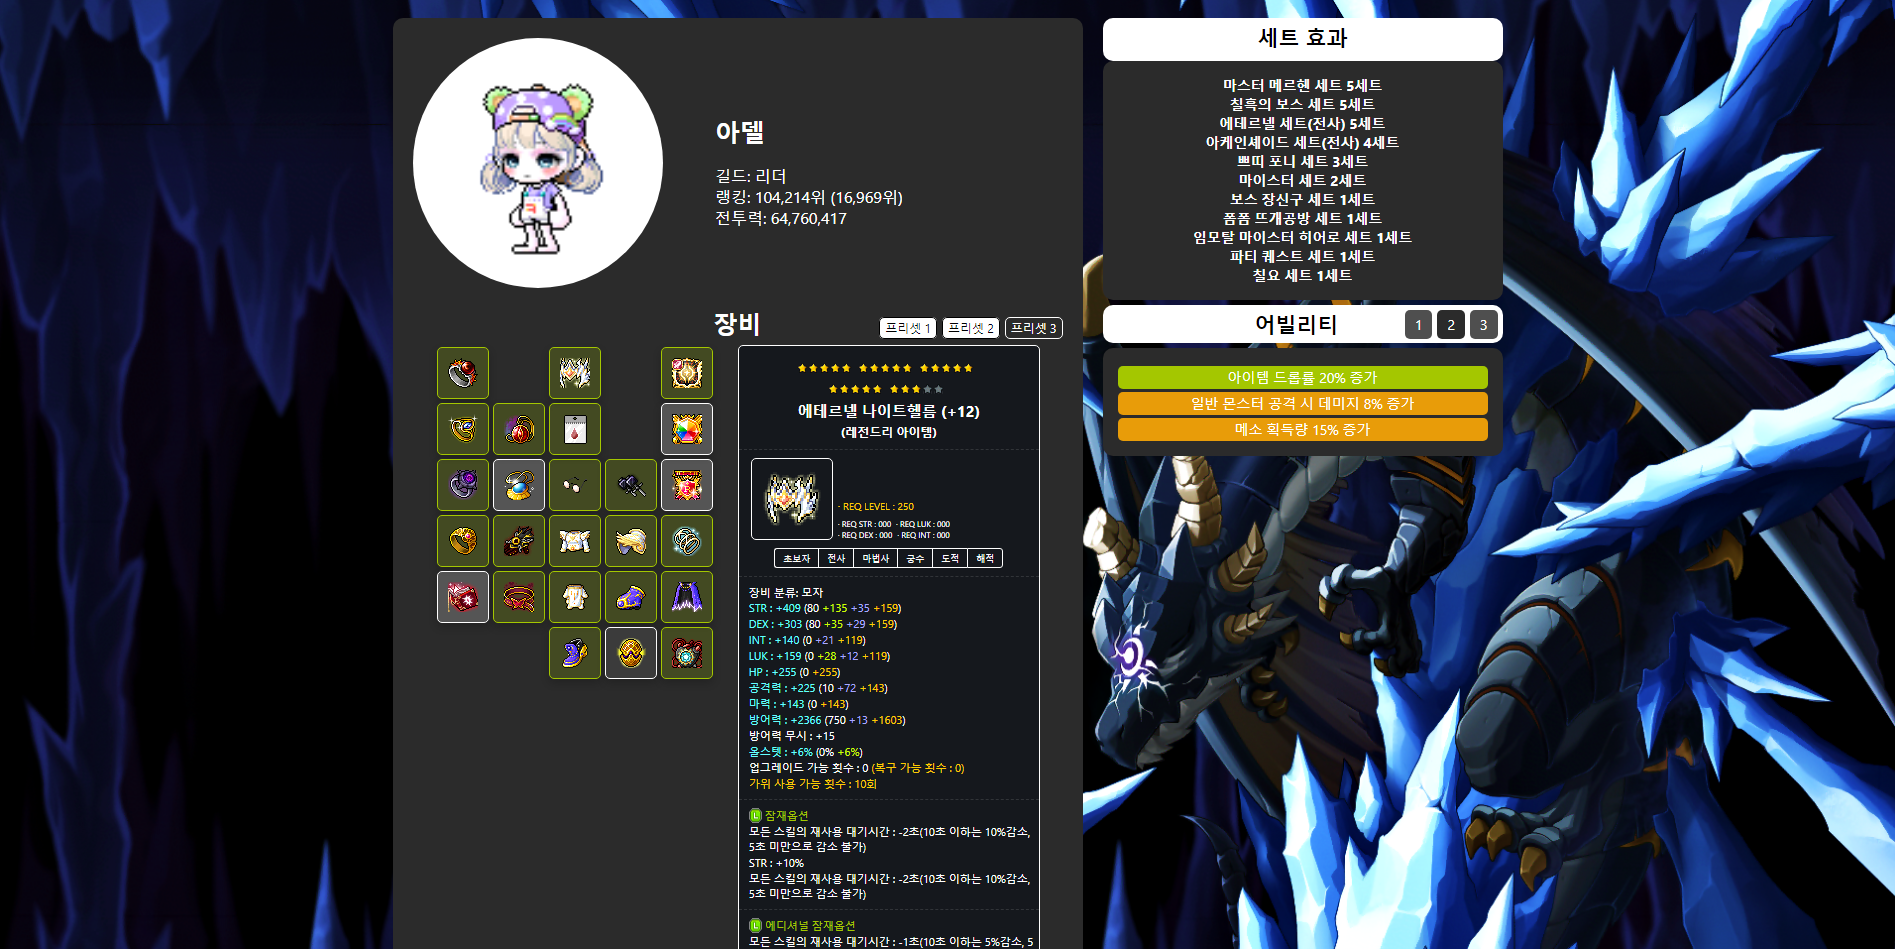
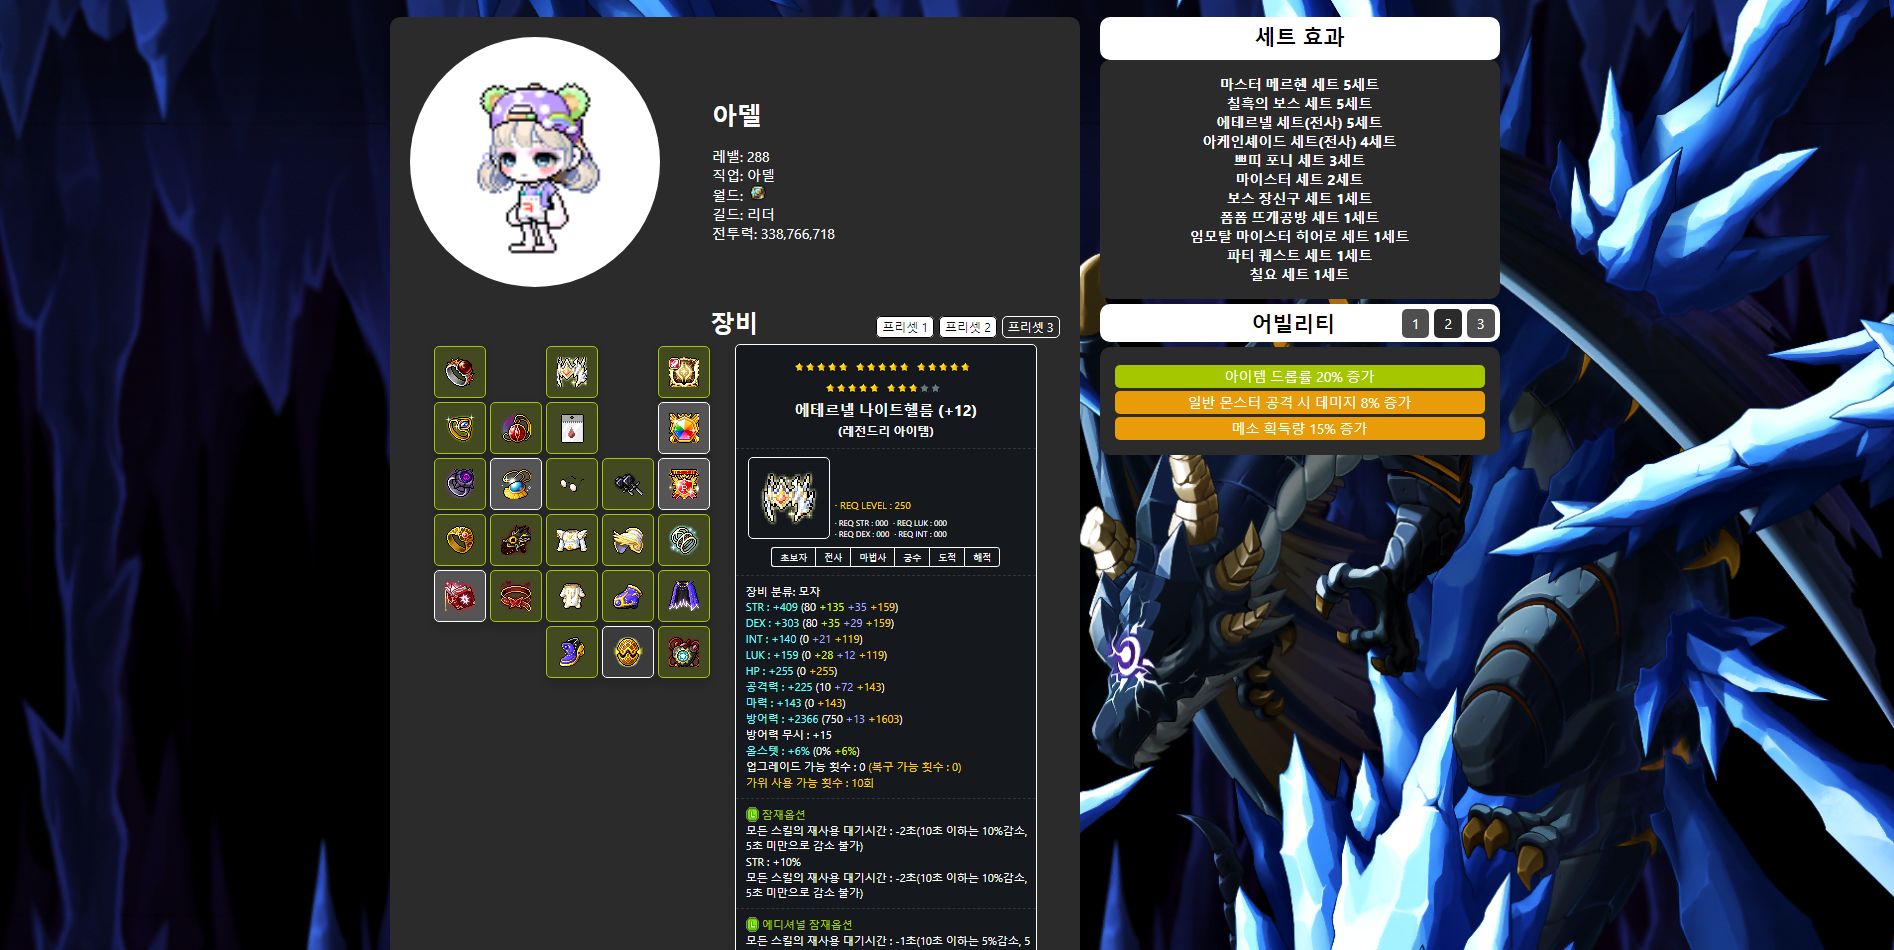
메른이 캐릭터 기본 정보 출력 실제 API 정보로 변경

diff --git a/src/components/Character/Character.js b/src/components/Character/Character.js
@@ -1,9 +1,24 @@
 import React from "react";
 import {ERROR_MESSAGE} from "../../constants/errorConstants";
 import defaultAvatarImg from "../../assets/image/common/maplestory-default-avatar.png";
+import acainIcon from "../../assets/image/common/acain.png";
+import beraIcon from "../../assets/image/common/bera.png";
+import croaIcon from "../../assets/image/common/croa.png";
+import elysiumIcon from "../../assets/image/common/elysium.png";
+import enosisIcon from "../../assets/image/common/enosis.png";
+import novaIcon from "../../assets/image/common/nova.png";
+import ororaIcon from "../../assets/image/common/orora.png";
+import rebootIcon from "../../assets/image/common/reboot.gif";
+import redIcon from "../../assets/image/common/red.png";
+import runaIcon from "../../assets/image/common/runa.png";
+import scaniaIcon from "../../assets/image/common/scania.png";
+import unionIcon from "../../assets/image/common/union.png";
+import zenisIcon from "../../assets/image/common/zenis.png";
+import errorIcon from "../../assets/image/common/maplestory-char-img.jpg";
 
-const Character = (data) => {
-    if("error" in data){
+const Character = (basicInfo, statInfo) => {
+    if("error" in basicInfo || "error" in statInfo){
+        let errorType = "error" in basicInfo ? basicInfo.error.name : statInfo.error.name;
 
         return (
             <div className="character-header">
@@ -11,24 +26,77 @@ const Character = (data) => {
                     <img src={defaultAvatarImg} alt="캐릭터 아바타" />
                 </div>
                 <div className="character-details">
-                    <h1>{ERROR_MESSAGE[data.error.name]}</h1>
+                    <h1>{ERROR_MESSAGE[errorType]}</h1>
+                    <p>레밸: -</p>
+                    <p>직업: -</p>
+                    <p>월드: -</p>
                     <p>길드: -</p>
-                    <p>랭킹: -</p>
                     <p>전투력: -</p>
                 </div>
             </div>
         );
     }else{
+        let worldIcon;
+        switch (basicInfo.world_name) {
+            case "아케인":
+                worldIcon = acainIcon;
+                break;
+            case "베라":
+                worldIcon = beraIcon;
+                break;
+            case "크로아":
+                worldIcon = croaIcon;
+                break;
+            case "엘리시움":
+                worldIcon = elysiumIcon;
+                break;
+            case "이노시스":
+                worldIcon = enosisIcon;
+                break;
+            case "노바":
+                worldIcon = novaIcon;
+                break;
+            case "오로라":
+                worldIcon = ororaIcon;
+                break;
+            case "리부트":
+                worldIcon = rebootIcon;
+                break;
+            case "레드":
+                worldIcon = redIcon;
+                break;
+            case "루나":
+                worldIcon = runaIcon;
+                break;
+            case "스카니아":
+                worldIcon = scaniaIcon;
+                break;
+            case "유니온":
+                worldIcon = unionIcon;
+                break;
+            case "제니스":
+                worldIcon = zenisIcon;
+                break;
+            default:
+                worldIcon = errorIcon;
+        }
+        const combatPower = statInfo?.final_stat.find(stat => stat?.stat_name === "전투력");
+
         return (
             <div className="character-header">
                 <div className="character-avatar">
-                    <img src={data?.character_image} alt="캐릭터 아바타" />
+                    <img src={basicInfo?.character_image} alt="캐릭터 아바타" />
                 </div>
                 <div className="character-details">
-                    <h1>{data?.character_name}</h1>
-                    <p>길드: {data?.character_guild_name}</p>
-                    <p>랭킹: 104,214위 (16,969위)</p>
-                    <p>전투력: 64,760,417</p>
+                    <h1>{basicInfo?.character_name}</h1>
+                    <p>레밸: {basicInfo?.character_level}</p>
+                    <p>직업: {basicInfo?.character_class}</p>
+                    <p>
+                        <span>월드: </span>
+                        <img className={"character-world-icon"} src={worldIcon} alt={basicInfo.world_name + " 월드 아이콘"}/>
+                    </p>
+                    <p>길드: {basicInfo?.character_guild_name}</p>
+                    <p>전투력: {(combatPower?.stat_value * 1).toLocaleString()}</p>
                 </div>
             </div>
         )

diff --git a/src/pages/SearchResult.js b/src/pages/SearchResult.js
@@ -128,7 +128,7 @@ const SearchResult = () => {
     return (
         <div className="result-area">
             <div className="character-info">
-                {Character(basicInfo)}
+                {Character(basicInfo, statInfo)}
                 {EquipmentItem(equipmentInfo, androidInfo)}
             </div>
             <div className="sidebar">

diff --git a/src/styles/SearchResult.css b/src/styles/SearchResult.css
@@ -62,6 +62,13 @@ body {
 .character-details p {
     text-align: left;
     color : white;
+    font-size: 14px;
+}
+.character-world-icon{
+    width: 16px;
+    height: 16px;
+    object-fit: contain;
+    margin-left: 3px;
 }
 /* END) 캐릭터 정보 텍스트 */
 
